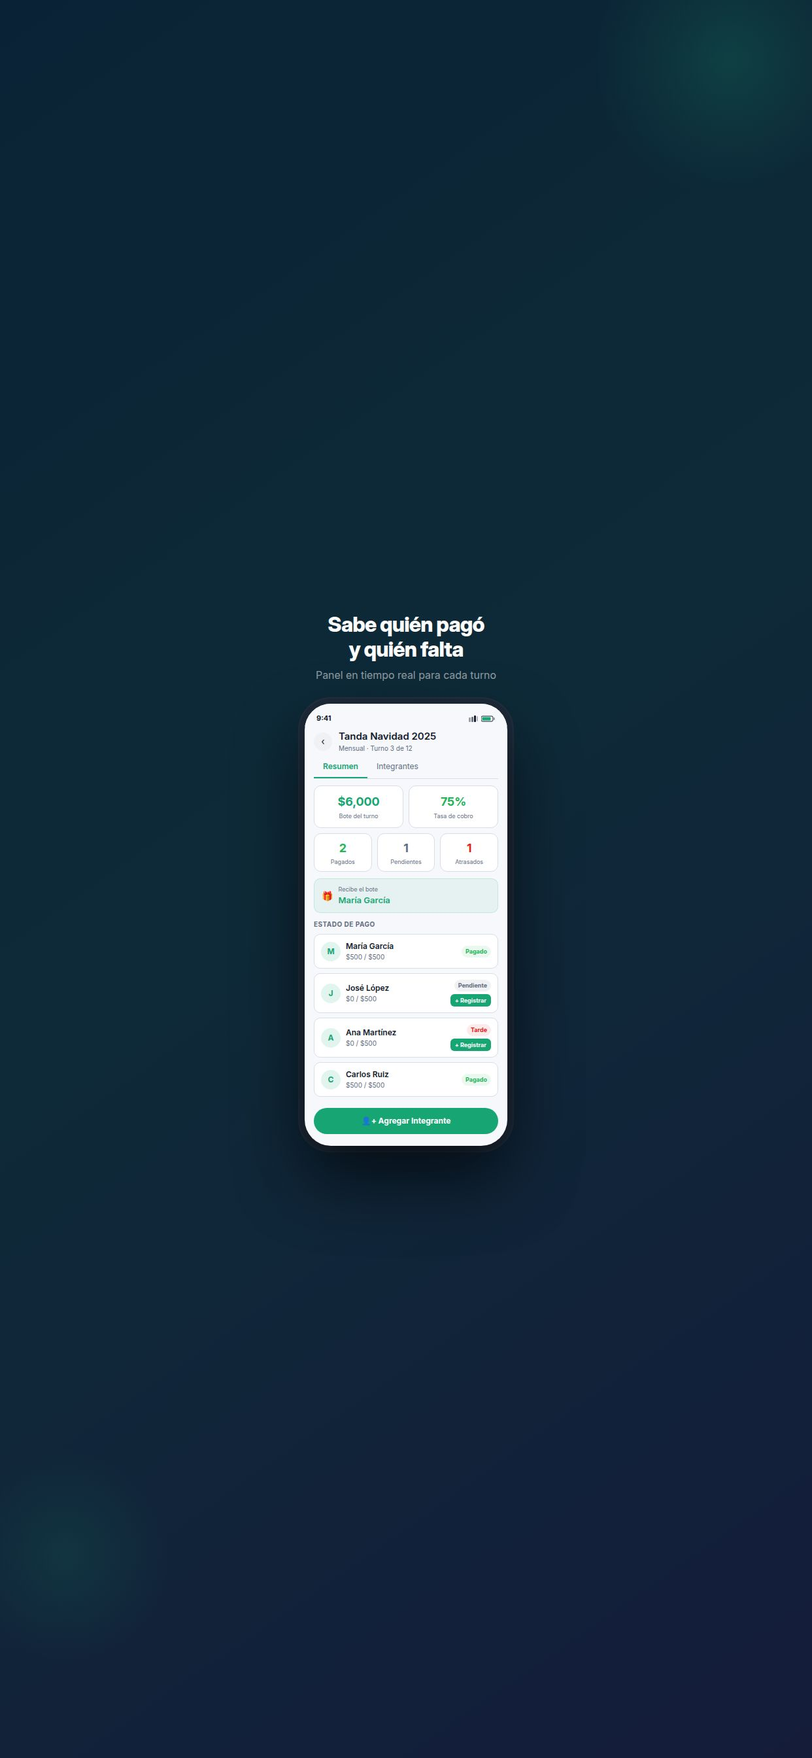
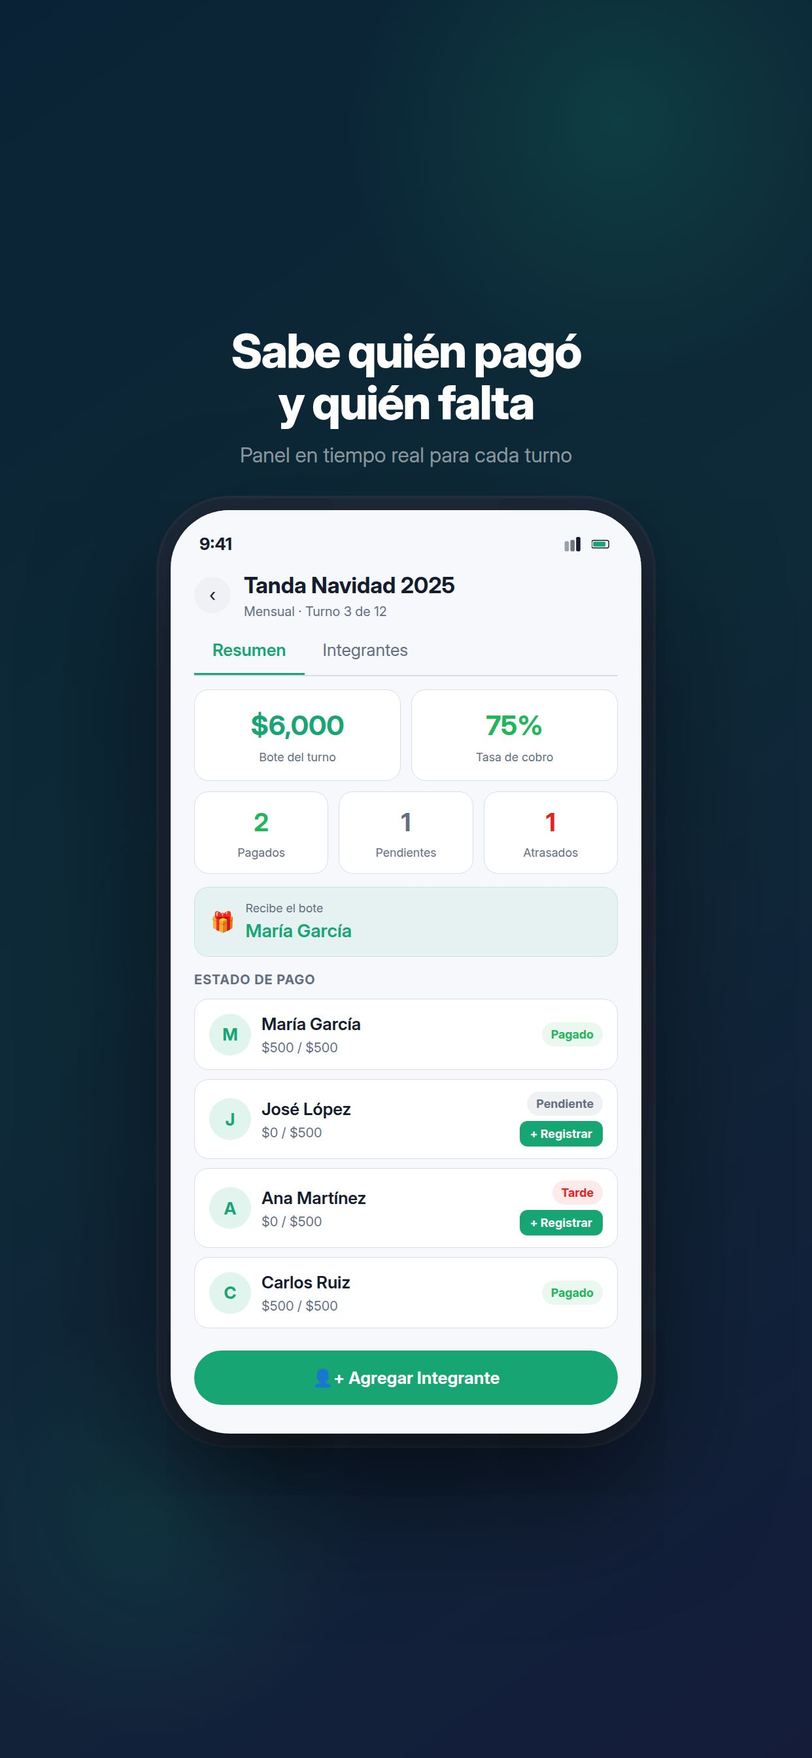
Improve visual appearance and size of app screenshots for better display
Update mockup component styles and generate new screenshots, significantly increasing the size of the phone frame and its content within the 1242x2688px canvas to enhance readability and visual impact.

Replit-Commit-Author: Agent
Replit-Commit-Session-Id: e019ea73-8e5f-4285-ade7-2ecf29f1a377
Replit-Commit-Checkpoint-Type: full_checkpoint
Replit-Commit-Event-Id: 28faefe4-91b3-4272-818a-b6af76a3a963
Replit-Commit-Screenshot-Url: https://storage.googleapis.com/screenshot-production-us-central1/a28acc6e-3080-4341-9633-196d7060ff5c/e019ea73-8e5f-4285-ade7-2ecf29f1a377/Uly8rVz
Replit-Helium-Checkpoint-Created: true

Changed region(s): [[0.1836, 0.1875, 0.7955, 0.8438], [0.4589, 0.4375, 0.5813, 0.5]]

diff --git a/artifacts/mockup-sandbox/src/components/mockups/circle-detail.tsx b/artifacts/mockup-sandbox/src/components/mockups/circle-detail.tsx
@@ -21,100 +21,102 @@ export default function CircleDetailPreview() {
       background: "linear-gradient(145deg, #0a2235 0%, #0e2a38 45%, #141c3a 100%)",
       display: "flex", alignItems: "center", justifyContent: "center",
       fontFamily: "Inter, system-ui, -apple-system, sans-serif",
-      flexDirection: "column", gap: 32, position: "relative", overflow: "hidden",
+      flexDirection: "column", gap: 60, position: "relative", overflow: "hidden",
     }}>
       {/* Background glows */}
-      <div style={{ position: "absolute", width: 450, height: 450, borderRadius: "50%", background: "radial-gradient(circle, rgba(24,165,116,0.2) 0%, transparent 65%)", top: "-5%", right: "-8%", pointerEvents: "none" }} />
-      <div style={{ position: "absolute", width: 350, height: 350, borderRadius: "50%", background: "radial-gradient(circle, rgba(24,165,116,0.13) 0%, transparent 65%)", bottom: "5%", left: "-6%", pointerEvents: "none" }} />
+      <div style={{ position: "absolute", width: 900, height: 900, borderRadius: "50%", background: "radial-gradient(circle, rgba(24,165,116,0.18) 0%, transparent 65%)", top: "-10%", right: "-12%", pointerEvents: "none" }} />
+      <div style={{ position: "absolute", width: 700, height: 700, borderRadius: "50%", background: "radial-gradient(circle, rgba(24,165,116,0.12) 0%, transparent 65%)", bottom: "0%", left: "-10%", pointerEvents: "none" }} />
 
       {/* Headline */}
       <div style={{ textAlign: "center", color: "#fff", zIndex: 1 }}>
-        <div style={{ fontSize: 32, fontWeight: 800, letterSpacing: -0.8, lineHeight: 1.2, marginBottom: 8 }}>
+        <div style={{ fontSize: 72, fontWeight: 800, letterSpacing: -2, lineHeight: 1.1, marginBottom: 18 }}>
           Sabe quién pagó<br />y quién falta
         </div>
-        <div style={{ fontSize: 16, color: "rgba(255,255,255,0.55)", fontWeight: 400 }}>
+        <div style={{ fontSize: 32, color: "rgba(255,255,255,0.55)", fontWeight: 400 }}>
           Panel en tiempo real para cada turno
         </div>
       </div>
 
       {/* Phone */}
       <div style={{
-        width: 310, background: bg, borderRadius: 40, overflow: "hidden", zIndex: 1,
-        boxShadow: "0 50px 100px rgba(0,0,0,0.65), 0 0 0 8px #1e2a3a, 0 0 0 10px #243040",
+        width: 720, background: bg, borderRadius: 90, overflow: "hidden", zIndex: 1,
+        boxShadow: "0 80px 200px rgba(0,0,0,0.7), 0 0 0 18px #1e2a3a, 0 0 0 22px #243040",
       }}>
         {/* Status bar */}
-        <div style={{ background: bg, padding: "14px 18px 4px", display: "flex", justifyContent: "space-between", alignItems: "center" }}>
-          <span style={{ fontSize: 11, fontWeight: 700, color: text }}>9:41</span>
-          <div style={{ display: "flex", gap: 5, alignItems: "center" }}>
-            <svg width="14" height="10" viewBox="0 0 14 10"><rect x="0" y="3" width="3" height="7" rx="1" fill={text} opacity="0.4"/><rect x="4" y="2" width="3" height="8" rx="1" fill={text} opacity="0.6"/><rect x="8" y="0" width="3" height="10" rx="1" fill={text}/><rect x="12" y="1" width="2" height="8" rx="1" fill={text} opacity="0.3"/></svg>
-            <svg width="22" height="10" viewBox="0 0 22 10"><rect x="0" y="1" width="18" height="8" rx="2" stroke={text} strokeWidth="1" fill="none"/><rect x="1.5" y="2.5" width="13" height="5" rx="1" fill={primary}/><rect x="19" y="3" width="2" height="4" rx="1" fill={text} opacity="0.4"/></svg>
+        <div style={{ background: bg, padding: "32px 44px 10px", display: "flex", justifyContent: "space-between", alignItems: "center" }}>
+          <span style={{ fontSize: 26, fontWeight: 700, color: text }}>9:41</span>
+          <div style={{ display: "flex", gap: 10, alignItems: "center" }}>
+            <svg width="32" height="22" viewBox="0 0 14 10"><rect x="0" y="3" width="3" height="7" rx="1" fill={text} opacity="0.4"/><rect x="4" y="2" width="3" height="8" rx="1" fill={text} opacity="0.6"/><rect x="8" y="0" width="3" height="10" rx="1" fill={text}/></svg>
+            <svg width="32" height="22" viewBox="0 0 22 10"><rect x="0" y="1" width="18" height="8" rx="2" stroke={text} strokeWidth="1" fill="none"/><rect x="1.5" y="2.5" width="13" height="5" rx="1" fill={primary}/></svg>
           </div>
         </div>
 
         {/* Header */}
-        <div style={{ padding: "4px 14px 4px", display: "flex", alignItems: "center" }}>
-          <div style={{ width: 28, height: 28, borderRadius: 14, background: "#eff1f5", display: "flex", alignItems: "center", justifyContent: "center", fontSize: 14, color: text }}>‹</div>
-          <div style={{ flex: 1, marginLeft: 10 }}>
-            <div style={{ fontSize: 15, fontWeight: 600, color: text }}>Tanda Navidad 2025</div>
-            <div style={{ fontSize: 10, color: muted }}>Mensual · Turno 3 de 12</div>
+        <div style={{ padding: "8px 36px 8px", display: "flex", alignItems: "center" }}>
+          <div style={{ width: 56, height: 56, borderRadius: 28, background: "#eff1f5", display: "flex", alignItems: "center", justifyContent: "center", fontSize: 28, color: text, flexShrink: 0 }}>‹</div>
+          <div style={{ flex: 1, marginLeft: 20 }}>
+            <div style={{ fontSize: 34, fontWeight: 700, color: text }}>Tanda Navidad 2025</div>
+            <div style={{ fontSize: 20, color: muted }}>Mensual · Turno 3 de 12</div>
           </div>
         </div>
 
         {/* Tabs */}
-        <div style={{ display: "flex", borderBottom: `1px solid ${border}`, marginLeft: 14, marginRight: 14 }}>
-          <div style={{ padding: "7px 14px", borderBottom: `2px solid ${primary}`, color: primary, fontSize: 12, fontWeight: 600 }}>Resumen</div>
-          <div style={{ padding: "7px 14px", color: muted, fontSize: 12 }}>Integrantes</div>
+        <div style={{ display: "flex", borderBottom: `2px solid ${border}`, marginLeft: 36, marginRight: 36 }}>
+          <div style={{ padding: "16px 28px", borderBottom: `3px solid ${primary}`, color: primary, fontSize: 26, fontWeight: 600 }}>Resumen</div>
+          <div style={{ padding: "16px 28px", color: muted, fontSize: 26 }}>Integrantes</div>
         </div>
 
-        <div style={{ padding: "10px 14px" }}>
+        <div style={{ padding: "20px 36px" }}>
           {/* Stats row 1 */}
-          <div style={{ display: "flex", gap: 8, marginBottom: 8 }}>
-            <div style={{ flex: 1, background: card, borderRadius: 11, padding: "10px 12px", border: `1px solid ${border}`, textAlign: "center" }}>
-              <div style={{ fontSize: 18, fontWeight: 700, color: primary }}>$6,000</div>
-              <div style={{ fontSize: 9, color: muted, marginTop: 2 }}>Bote del turno</div>
+          <div style={{ display: "flex", gap: 16, marginBottom: 16 }}>
+            <div style={{ flex: 1, background: card, borderRadius: 22, padding: "22px 26px", border: `1px solid ${border}`, textAlign: "center" }}>
+              <div style={{ fontSize: 42, fontWeight: 700, color: primary }}>$6,000</div>
+              <div style={{ fontSize: 18, color: muted, marginTop: 4 }}>Bote del turno</div>
             </div>
-            <div style={{ flex: 1, background: card, borderRadius: 11, padding: "10px 12px", border: `1px solid ${border}`, textAlign: "center" }}>
-              <div style={{ fontSize: 18, fontWeight: 700, color: success }}>75%</div>
-              <div style={{ fontSize: 9, color: muted, marginTop: 2 }}>Tasa de cobro</div>
+            <div style={{ flex: 1, background: card, borderRadius: 22, padding: "22px 26px", border: `1px solid ${border}`, textAlign: "center" }}>
+              <div style={{ fontSize: 42, fontWeight: 700, color: success }}>75%</div>
+              <div style={{ fontSize: 18, color: muted, marginTop: 4 }}>Tasa de cobro</div>
             </div>
           </div>
 
           {/* Stats row 2 */}
-          <div style={{ display: "flex", gap: 8, marginBottom: 10 }}>
+          <div style={{ display: "flex", gap: 16, marginBottom: 20 }}>
             {[["2", "Pagados", success], ["1", "Pendientes", muted], ["1", "Atrasados", danger]].map(([v, l, c], i) => (
-              <div key={i} style={{ flex: 1, background: card, borderRadius: 11, padding: "8px 10px", border: `1px solid ${border}`, textAlign: "center" }}>
-                <div style={{ fontSize: 18, fontWeight: 700, color: c }}>{v}</div>
-                <div style={{ fontSize: 9, color: muted, marginTop: 1 }}>{l}</div>
+              <div key={i} style={{ flex: 1, background: card, borderRadius: 22, padding: "18px 20px", border: `1px solid ${border}`, textAlign: "center" }}>
+                <div style={{ fontSize: 38, fontWeight: 700, color: c }}>{v}</div>
+                <div style={{ fontSize: 18, color: muted, marginTop: 4 }}>{l}</div>
               </div>
             ))}
           </div>
 
           {/* Recipient */}
-          <div style={{ display: "flex", alignItems: "center", background: primary + "12", borderRadius: 10, padding: "9px 11px", marginBottom: 10, border: `1px solid ${primary}28` }}>
-            <span style={{ fontSize: 14, marginRight: 8 }}>🎁</span>
+          <div style={{ display: "flex", alignItems: "center", background: primary + "12", borderRadius: 22, padding: "18px 24px", marginBottom: 20, border: `1px solid ${primary}28` }}>
+            <span style={{ fontSize: 30, marginRight: 16 }}>🎁</span>
             <div>
-              <div style={{ fontSize: 9, color: muted }}>Recibe el bote</div>
-              <div style={{ fontSize: 13, fontWeight: 600, color: primary }}>María García</div>
+              <div style={{ fontSize: 18, color: muted }}>Recibe el bote</div>
+              <div style={{ fontSize: 28, fontWeight: 600, color: primary }}>María García</div>
             </div>
           </div>
 
+          {/* Section label */}
+          <div style={{ fontSize: 20, fontWeight: 700, color: muted, textTransform: "uppercase", letterSpacing: "1px", marginBottom: 14 }}>Estado de pago</div>
+
           {/* Member rows */}
-          <div style={{ fontSize: 10, fontWeight: 700, color: muted, textTransform: "uppercase", letterSpacing: "0.5px", marginBottom: 7 }}>Estado de pago</div>
           {members.map((m, i) => (
-            <div key={i} style={{ display: "flex", alignItems: "center", background: card, borderRadius: 10, padding: "9px 10px", marginBottom: 7, border: `1px solid ${border}`, gap: 8 }}>
-              <div style={{ width: 30, height: 30, borderRadius: 15, background: primary + "20", display: "flex", alignItems: "center", justifyContent: "center", fontSize: 12, fontWeight: 700, color: primary, flexShrink: 0 }}>
+            <div key={i} style={{ display: "flex", alignItems: "center", background: card, borderRadius: 22, padding: "18px 22px", marginBottom: 14, border: `1px solid ${border}`, gap: 16 }}>
+              <div style={{ width: 64, height: 64, borderRadius: 32, background: primary + "20", display: "flex", alignItems: "center", justifyContent: "center", fontSize: 26, fontWeight: 700, color: primary, flexShrink: 0 }}>
                 {m.name.charAt(0)}
               </div>
-              <div style={{ flex: 1, minWidth: 0 }}>
-                <div style={{ fontSize: 12, fontWeight: 600, color: text, whiteSpace: "nowrap", overflow: "hidden", textOverflow: "ellipsis" }}>{m.name}</div>
-                <div style={{ fontSize: 10, color: muted }}>${m.paid_amt} / ${m.due}</div>
+              <div style={{ flex: 1 }}>
+                <div style={{ fontSize: 26, fontWeight: 600, color: text }}>{m.name}</div>
+                <div style={{ fontSize: 20, color: muted, marginTop: 2 }}>${m.paid_amt} / ${m.due}</div>
               </div>
-              <div style={{ display: "flex", flexDirection: "column", alignItems: "flex-end", gap: 4, flexShrink: 0 }}>
-                <span style={{ fontSize: 9, fontWeight: 700, padding: "2px 6px", borderRadius: 20, color: m.paid ? success : m.late ? danger : muted, background: m.paid ? success + "18" : m.late ? danger + "18" : muted + "18" }}>
+              <div style={{ display: "flex", flexDirection: "column", alignItems: "flex-end", gap: 8, flexShrink: 0 }}>
+                <span style={{ fontSize: 18, fontWeight: 700, padding: "5px 14px", borderRadius: 40, color: m.paid ? success : m.late ? danger : muted, background: m.paid ? success + "18" : m.late ? danger + "18" : muted + "18" }}>
                   {m.paid ? "Pagado" : m.late ? "Tarde" : "Pendiente"}
                 </span>
                 {!m.paid && (
-                  <div style={{ background: primary, color: "#fff", fontSize: 9, fontWeight: 700, padding: "3px 7px", borderRadius: 6 }}>+ Registrar</div>
+                  <div style={{ background: primary, color: "#fff", fontSize: 18, fontWeight: 700, padding: "6px 16px", borderRadius: 12 }}>+ Registrar</div>
                 )}
               </div>
             </div>
@@ -122,8 +124,8 @@ export default function CircleDetailPreview() {
         </div>
 
         {/* FAB */}
-        <div style={{ padding: "0 14px 18px" }}>
-          <div style={{ background: primary, color: "#fff", borderRadius: 24, padding: "11px 0", fontWeight: 700, fontSize: 12, display: "flex", alignItems: "center", justifyContent: "center", gap: 6 }}>
+        <div style={{ padding: "0 36px 44px" }}>
+          <div style={{ background: primary, color: "#fff", borderRadius: 50, padding: "22px 0", fontWeight: 700, fontSize: 26, display: "flex", alignItems: "center", justifyContent: "center", gap: 12 }}>
             👤+ Agregar Integrante
           </div>
         </div>

diff --git a/artifacts/mockup-sandbox/src/components/mockups/circles-list.tsx b/artifacts/mockup-sandbox/src/components/mockups/circles-list.tsx
@@ -19,75 +19,74 @@ export default function CirclesListPreview() {
       background: "linear-gradient(145deg, #0a2235 0%, #0e2a38 45%, #141c3a 100%)",
       display: "flex", alignItems: "center", justifyContent: "center",
       fontFamily: "Inter, system-ui, -apple-system, sans-serif",
-      flexDirection: "column", gap: 36, position: "relative", overflow: "hidden",
+      flexDirection: "column", gap: 64, position: "relative", overflow: "hidden",
     }}>
       {/* Background glows */}
-      <div style={{ position: "absolute", width: 500, height: 500, borderRadius: "50%", background: "radial-gradient(circle, rgba(24,165,116,0.18) 0%, transparent 65%)", top: "-10%", right: "-10%", pointerEvents: "none" }} />
-      <div style={{ position: "absolute", width: 400, height: 400, borderRadius: "50%", background: "radial-gradient(circle, rgba(24,165,116,0.12) 0%, transparent 65%)", bottom: "5%", left: "-8%", pointerEvents: "none" }} />
+      <div style={{ position: "absolute", width: 900, height: 900, borderRadius: "50%", background: "radial-gradient(circle, rgba(24,165,116,0.18) 0%, transparent 65%)", top: "-15%", right: "-15%", pointerEvents: "none" }} />
+      <div style={{ position: "absolute", width: 700, height: 700, borderRadius: "50%", background: "radial-gradient(circle, rgba(24,165,116,0.12) 0%, transparent 65%)", bottom: "0%", left: "-12%", pointerEvents: "none" }} />
 
       {/* Headline */}
       <div style={{ textAlign: "center", color: "#fff", zIndex: 1 }}>
-        <div style={{ fontSize: 32, fontWeight: 800, letterSpacing: -0.8, lineHeight: 1.2, marginBottom: 8 }}>
+        <div style={{ fontSize: 72, fontWeight: 800, letterSpacing: -2, lineHeight: 1.1, marginBottom: 18 }}>
           Todas tus tandas<br />en un solo lugar
         </div>
-        <div style={{ fontSize: 16, color: "rgba(255,255,255,0.55)", fontWeight: 400 }}>
+        <div style={{ fontSize: 32, color: "rgba(255,255,255,0.55)", fontWeight: 400 }}>
           Controla cada círculo de ahorro fácilmente
         </div>
       </div>
 
       {/* Phone */}
       <div style={{
-        width: 310, background: bg, borderRadius: 40, overflow: "hidden", zIndex: 1,
-        boxShadow: "0 50px 100px rgba(0,0,0,0.65), 0 0 0 8px #1e2a3a, 0 0 0 10px #243040",
+        width: 720, background: bg, borderRadius: 90, overflow: "hidden", zIndex: 1,
+        boxShadow: "0 80px 200px rgba(0,0,0,0.7), 0 0 0 18px #1e2a3a, 0 0 0 22px #243040",
       }}>
         {/* Status bar */}
-        <div style={{ background: bg, padding: "14px 18px 4px", display: "flex", justifyContent: "space-between", alignItems: "center" }}>
-          <span style={{ fontSize: 11, fontWeight: 700, color: text }}>9:41</span>
-          <div style={{ display: "flex", gap: 5, alignItems: "center" }}>
-            <svg width="14" height="10" viewBox="0 0 14 10"><rect x="0" y="3" width="3" height="7" rx="1" fill={text} opacity="0.4"/><rect x="4" y="2" width="3" height="8" rx="1" fill={text} opacity="0.6"/><rect x="8" y="0" width="3" height="10" rx="1" fill={text}/><rect x="12" y="1" width="2" height="8" rx="1" fill={text} opacity="0.3"/></svg>
-            <svg width="14" height="10" viewBox="0 0 14 10"><path d="M7 2C9.5 2 11.7 3.1 13.1 4.9L14 4C12.4 1.6 9.9 0 7 0C4.1 0 1.6 1.6 0 4L0.9 4.9C2.3 3.1 4.5 2 7 2Z" fill={text}/><path d="M7 5C8.7 5 10.2 5.7 11.3 6.9L12.2 6C10.9 4.5 9.1 3.5 7 3.5C4.9 3.5 3.1 4.5 1.8 6L2.7 6.9C3.8 5.7 5.3 5 7 5Z" fill={text}/><circle cx="7" cy="9" r="1.5" fill={text}/></svg>
-            <svg width="22" height="10" viewBox="0 0 22 10"><rect x="0" y="1" width="18" height="8" rx="2" stroke={text} strokeWidth="1" fill="none"/><rect x="1.5" y="2.5" width="13" height="5" rx="1" fill={primary}/><rect x="19" y="3" width="2" height="4" rx="1" fill={text} opacity="0.4"/></svg>
+        <div style={{ background: bg, padding: "32px 44px 10px", display: "flex", justifyContent: "space-between", alignItems: "center" }}>
+          <span style={{ fontSize: 26, fontWeight: 700, color: text }}>9:41</span>
+          <div style={{ display: "flex", gap: 10, alignItems: "center" }}>
+            <svg width="32" height="22" viewBox="0 0 14 10"><rect x="0" y="3" width="3" height="7" rx="1" fill={text} opacity="0.4"/><rect x="4" y="2" width="3" height="8" rx="1" fill={text} opacity="0.6"/><rect x="8" y="0" width="3" height="10" rx="1" fill={text}/><rect x="12" y="1" width="2" height="8" rx="1" fill={text} opacity="0.3"/></svg>
+            <svg width="32" height="22" viewBox="0 0 22 10"><rect x="0" y="1" width="18" height="8" rx="2" stroke={text} strokeWidth="1" fill="none"/><rect x="1.5" y="2.5" width="13" height="5" rx="1" fill={primary}/><rect x="19" y="3" width="2" height="4" rx="1" fill={text} opacity="0.4"/></svg>
           </div>
         </div>
 
         {/* Header */}
-        <div style={{ padding: "6px 18px 4px", display: "flex", alignItems: "center", justifyContent: "space-between" }}>
-          <span style={{ fontSize: 24, fontWeight: 700, color: text }}>Mis Tandas</span>
-          <div style={{ width: 32, height: 32, borderRadius: 16, background: primary, display: "flex", alignItems: "center", justifyContent: "center", color: "#fff", fontSize: 20, lineHeight: 1 }}>+</div>
+        <div style={{ padding: "14px 44px 10px", display: "flex", alignItems: "center", justifyContent: "space-between" }}>
+          <span style={{ fontSize: 52, fontWeight: 700, color: text }}>Mis Tandas</span>
+          <div style={{ width: 72, height: 72, borderRadius: 36, background: primary, display: "flex", alignItems: "center", justifyContent: "center", color: "#fff", fontSize: 44, lineHeight: 1 }}>+</div>
         </div>
 
         {/* Cards */}
-        <div style={{ padding: "6px 14px 14px" }}>
+        <div style={{ padding: "8px 36px 36px" }}>
           {circles.map((c, i) => (
-            <div key={i} style={{ background: card, borderRadius: 13, padding: "11px 13px", marginBottom: 9, border: `1px solid ${border}` }}>
+            <div key={i} style={{ background: card, borderRadius: 28, padding: "26px 30px", marginBottom: 20, border: `1px solid ${border}` }}>
               <div style={{ display: "flex", alignItems: "center", justifyContent: "space-between" }}>
-                <span style={{ fontSize: 13, fontWeight: 600, color: text }}>{c.name}</span>
-                <span style={{ fontSize: 9, fontWeight: 700, color: c.active ? primary : muted, background: c.active ? primary + "18" : "#eff1f5", padding: "2px 7px", borderRadius: 20, letterSpacing: 0.3 }}>
+                <span style={{ fontSize: 30, fontWeight: 600, color: text }}>{c.name}</span>
+                <span style={{ fontSize: 20, fontWeight: 700, color: c.active ? primary : muted, background: c.active ? primary + "18" : "#eff1f5", padding: "6px 18px", borderRadius: 40, letterSpacing: 0.5 }}>
                   {c.active ? "ACTIVA" : "INACTIVA"}
                 </span>
               </div>
-              <div style={{ display: "flex", gap: 10, marginTop: 5 }}>
-                <span style={{ fontSize: 10, color: muted }}>↻ {c.freq}</span>
-                <span style={{ fontSize: 10, color: muted }}>Turno {c.cycle}/{c.total}</span>
+              <div style={{ display: "flex", gap: 20, marginTop: 12 }}>
+                <span style={{ fontSize: 22, color: muted }}>↻ {c.freq}</span>
+                <span style={{ fontSize: 22, color: muted }}>Turno {c.cycle}/{c.total}</span>
               </div>
-              <div style={{ height: 1, background: border, margin: "7px 0" }} />
+              <div style={{ height: 1, background: border, margin: "16px 0" }} />
               <div style={{ display: "flex", justifyContent: "space-between", alignItems: "center" }}>
-                <span style={{ fontSize: 17, fontWeight: 700, color: primary }}>${c.amount.toLocaleString()}</span>
-                <span style={{ fontSize: 10, color: muted }}>Turno {c.cycle} de {c.total} ›</span>
+                <span style={{ fontSize: 40, fontWeight: 700, color: primary }}>${c.amount.toLocaleString()}</span>
+                <span style={{ fontSize: 22, color: muted }}>Turno {c.cycle} de {c.total} ›</span>
               </div>
             </div>
           ))}
         </div>
 
         {/* Tab bar */}
-        <div style={{ background: card, borderTop: `1px solid ${border}`, display: "flex", paddingBottom: 18 }}>
-          <div style={{ flex: 1, display: "flex", flexDirection: "column", alignItems: "center", paddingTop: 8, gap: 2 }}>
-            <svg width="22" height="18" viewBox="0 0 22 18" fill="none"><path d="M8 8C10.2 8 12 6.2 12 4C12 1.8 10.2 0 8 0C5.8 0 4 1.8 4 4C4 6.2 5.8 8 8 8ZM8 10C5.3 10 0 11.3 0 14V16H16V14C16 11.3 10.7 10 8 10Z" fill={primary}/><path d="M15 8C16.7 8 18 6.7 18 5C18 3.3 16.7 2 15 2C14.3 2 13.7 2.2 13.2 2.6C13.7 3.3 14 4.1 14 5C14 5.9 13.7 6.7 13.2 7.4C13.7 7.8 14.3 8 15 8ZM15 10C14 10 13.1 10.2 12.3 10.5C13.3 11.4 14 12.6 14 14V16H22V14C22 11.3 17.7 10 15 10Z" fill={primary} opacity="0.6"/></svg>
-            <span style={{ fontSize: 9, fontWeight: 700, color: primary }}>Tandas</span>
+        <div style={{ background: card, borderTop: `1px solid ${border}`, display: "flex", paddingBottom: 40 }}>
+          <div style={{ flex: 1, display: "flex", flexDirection: "column", alignItems: "center", paddingTop: 20, gap: 6 }}>
+            <svg width="48" height="40" viewBox="0 0 22 18" fill="none"><path d="M8 8C10.2 8 12 6.2 12 4C12 1.8 10.2 0 8 0C5.8 0 4 1.8 4 4C4 6.2 5.8 8 8 8ZM8 10C5.3 10 0 11.3 0 14V16H16V14C16 11.3 10.7 10 8 10Z" fill={primary}/><path d="M15 8C16.7 8 18 6.7 18 5C18 3.3 16.7 2 15 2C14.3 2 13.7 2.2 13.2 2.6C13.7 3.3 14 4.1 14 5C14 5.9 13.7 6.7 13.2 7.4C13.7 7.8 14.3 8 15 8ZM15 10C14 10 13.1 10.2 12.3 10.5C13.3 11.4 14 12.6 14 14V16H22V14C22 11.3 17.7 10 15 10Z" fill={primary} opacity="0.6"/></svg>
+            <span style={{ fontSize: 20, fontWeight: 700, color: primary }}>Tandas</span>
           </div>
-          <div style={{ flex: 1, display: "flex", flexDirection: "column", alignItems: "center", paddingTop: 8, gap: 2 }}>
-            <svg width="20" height="20" viewBox="0 0 20 20" fill="none"><path d="M10 0C4.5 0 0 4.5 0 10C0 15.5 4.5 20 10 20C15.5 20 20 15.5 20 10C20 4.5 15.5 0 10 0ZM10 18C5.6 18 2 14.4 2 10C2 5.6 5.6 2 10 2C14.4 2 18 5.6 18 10C18 14.4 14.4 18 10 18ZM10.5 5H9V11L14.2 14.2L15 12.9L10.5 10.2V5Z" fill={muted}/></svg>
-            <span style={{ fontSize: 9, color: muted }}>Ajustes</span>
+          <div style={{ flex: 1, display: "flex", flexDirection: "column", alignItems: "center", paddingTop: 20, gap: 6 }}>
+            <svg width="44" height="44" viewBox="0 0 20 20" fill="none"><path d="M10 0C4.5 0 0 4.5 0 10C0 15.5 4.5 20 10 20C15.5 20 20 15.5 20 10C20 4.5 15.5 0 10 0ZM10 18C5.6 18 2 14.4 2 10C2 5.6 5.6 2 10 2C14.4 2 18 5.6 18 10C18 14.4 14.4 18 10 18ZM10.5 5H9V11L14.2 14.2L15 12.9L10.5 10.2V5Z" fill={muted}/></svg>
+            <span style={{ fontSize: 20, color: muted }}>Ajustes</span>
           </div>
         </div>
       </div>
